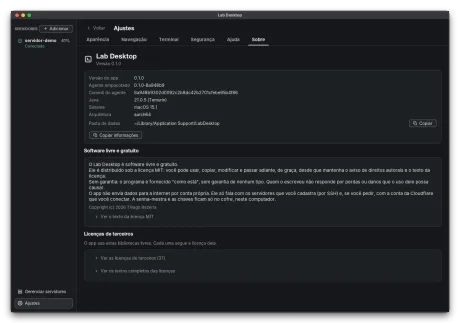
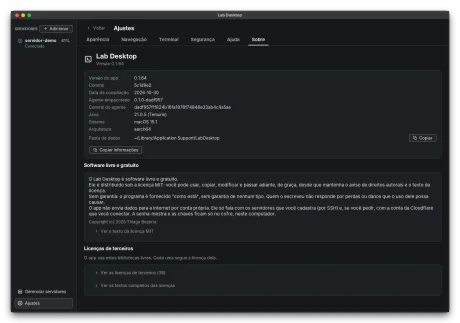
Galeria: telas do servidor com o agente de monitoramento, atualização do agente e Sobre com a versão
Imagens novas e regeneradas nos temas claro e escuro, com dados de exemplo, e galeria atualizada.

Changed region(s): [[0.1826, 0.2477, 0.9435, 0.805], [0.213, 0.8359, 0.3957, 0.8978], [0.8826, 0.3715, 0.9435, 0.4644]]

diff --git a/src/test/java/br/com/labdesktop/ui/galeria/GaleriaAgenteDeLeituraTest.java b/src/test/java/br/com/labdesktop/ui/galeria/GaleriaAgenteDeLeituraTest.java
@@ -1,0 +1,98 @@
+package br.com.labdesktop.ui.galeria;
+
+import static org.junit.jupiter.api.Assertions.assertFalse;
+import static org.junit.jupiter.api.Assertions.assertTrue;
+
+import br.com.labdesktop.Espera;
+import br.com.labdesktop.tendencias.JanelaDeTempo;
+import br.com.labdesktop.ui.VerificaEdt;
+import br.com.labdesktop.ui.Visual;
+import br.com.labdesktop.ui.telas.PaginaResumo;
+import br.com.labdesktop.ui.telas.TelaServidor;
+import br.com.labdesktop.ui.telas.TelaServidor.Aba;
+import java.nio.file.Path;
+import org.junit.jupiter.api.Test;
+import org.junit.jupiter.api.extension.ExtendWith;
+import org.junit.jupiter.api.io.TempDir;
+
+/**
+ * As imagens de galeria de um servidor que tem só o agente de monitoramento que o app instala: ele só lê a máquina, então não há aba Projetos, nem sessões do Claude, nem
+ * "Claude" em lugar nenhum; o Resumo mostra os seis gráficos de tendência (10 minutos e 1 hora) e as abas Máquina e Containers mostram o que o agente lê. Os dados são os
+ * do servidor de exemplo ("servidor-demo", inventados). Saem em {@code build/galeria/servidor-agente-leitura-*}.
+ */
+@ExtendWith(VerificaEdt.class)
+@org.junit.jupiter.api.condition.DisabledOnOs(org.junit.jupiter.api.condition.OS.WINDOWS) // usam o shell, o SFTP e as permissões de um servidor Linux de mentira
+class GaleriaAgenteDeLeituraTest {
+
+    @TempDir
+    Path tmp;
+
+    private static void semClaude(CenaDoServidor c) {
+        // a aba Máquina sempre tem a linha das versões das sessões (aparece sem valor quando o agente não informa a imagem): é a única citação permitida
+        String t = c.textos().replace("Claude" + " Code (sessões)", "");
+        assertFalse(t.toLowerCase().contains("claude"), "um agente de leitura não tem Claude: " + t);
+        TelaServidor ts = c.tela();
+        assertFalse(Visual.naEdt(() -> ts.abas().visivel(Aba.PROJETOS.id())), "o agente diz projetos: false, então a aba Projetos some");
+    }
+
+    private static void resumoNaJanela(CenaDoServidor c, JanelaDeTempo janela) {
+        TelaServidor ts = c.tela();
+        PaginaResumo resumo = (PaginaResumo) ts.pagina(Aba.RESUMO);
+        Object caixa = Visual.naEdt(() -> AcessoPorReflexao.chamar(resumo, "caixaDoRegistro"));
+        Object painelDoRegistro = Visual.naEdt(() -> AcessoPorReflexao.chamar(caixa, "painel"));
+        Visual.naEdt(() -> AcessoPorReflexao.chamar(painelDoRegistro, "forcarVisivelParaTeste", true)); // sem janela de verdade ninguém "aparece"
+        Espera.ate(CenaDoServidor.PRAZO, () -> "o Resumo com os gráficos: " + c.textos().replace('\n', '|'), () -> {
+            Visual.naEdt(() -> AcessoPorReflexao.chamar(resumo, "escolherJanelaParaTeste", janela)); // o seletor só liga quando o agente diz que guarda o histórico
+            String t = c.textos();
+            return t.contains("Tendências") && t.contains(janela.rotuloLongo()) && !t.contains("Carregando") && !t.contains("lendo") && !t.contains("sem dado ainda");
+        });
+    }
+
+    private CenaDoServidor cena() throws Exception {
+        CenaDoServidor c = new CenaDoServidor(tmp, new CenaDoServidor.Opcoes().agenteDeLeitura());
+        c.sshd = SegurancaDeExemplo.SSHD_SO_CHAVE;
+        c.loginsNoRegistro = false;
+        return c;
+    }
+
+    @Test
+    void resumoDe10Minutos() throws Exception {
+        try (CenaDoServidor c = cena()) {
+            c.abrir(Aba.RESUMO);
+            resumoNaJanela(c, JanelaDeTempo.DEZ_MINUTOS);
+            semClaude(c);
+            assertTrue(c.textos().contains("CPU") && c.textos().contains("Memória"), c.textos());
+            c.fotografar("servidor-agente-leitura-resumo-10min");
+        }
+    }
+
+    @Test
+    void resumoDe1Hora() throws Exception {
+        try (CenaDoServidor c = cena()) {
+            c.abrir(Aba.RESUMO);
+            resumoNaJanela(c, JanelaDeTempo.UMA_HORA);
+            semClaude(c);
+            c.fotografar("servidor-agente-leitura-resumo-1h");
+        }
+    }
+
+    @Test
+    void maquina() throws Exception {
+        try (CenaDoServidor c = cena()) {
+            c.abrir(Aba.MAQUINA);
+            c.esperarTextos("a aba Máquina lida pelo agente de leitura", "Git");
+            semClaude(c);
+            c.fotografar("servidor-agente-leitura-maquina");
+        }
+    }
+
+    @Test
+    void containers() throws Exception {
+        try (CenaDoServidor c = cena()) {
+            c.abrir(Aba.CONTAINERS);
+            c.esperarTextos("a aba Containers sem sessões do Claude", "Containers", "Rodando");
+            semClaude(c);
+            c.fotografar("servidor-agente-leitura-containers");
+        }
+    }
+}

diff --git a/src/test/java/br/com/labdesktop/ui/galeria/GaleriaAjustesTest.java b/src/test/java/br/com/labdesktop/ui/galeria/GaleriaAjustesTest.java
@@ -31,13 +31,14 @@ import org.junit.jupiter.api.io.TempDir;
 class GaleriaAjustesTest {
 
     static final String PASTA_DE_DADOS = "~/Library/Application Support/LabDesktop";
-    static final String VERSAO_DO_APP = "0.1.0";
+    /** A versão, o commit e a data da imagem são de exemplo no formato real (versão = base e número de commits): a imagem não mostra os do computador de teste. */
+    static final String VERSAO_DO_APP = "0.1.64";
+    static final String COMMIT_DE_EXEMPLO = "5c1d9e2";
+    static final String DATA_DE_EXEMPLO = "2026-10-30";
     /** O Java, o sistema e a arquitetura da imagem são de exemplo (a imagem não mostra os do computador de teste). */
     static final String JAVA_DE_EXEMPLO = "21.0.5 (Temurin)";
     static final String SISTEMA_DE_EXEMPLO = "macOS 15.1";
     static final String ARQUITETURA_DE_EXEMPLO = "aarch64";
-    static final String AGENTE_VERSAO = "0.1.0-8a948b9";
-    static final String AGENTE_COMMIT = "8a948b9302d0092c2b8dc42b2701cfebe95b4f86";
 
     @TempDir
     Path tmp;
@@ -51,10 +52,10 @@ class GaleriaAjustesTest {
             try {
                 ControleDeAjustes real = new AjustesDoApp(tema, preferencias, c.painel, new CopiadorDeTexto(() -> new Clipboard("teste")), c.avisos);
                 InformacoesDoApp lida = real.informacoes();
-                // o teste roda sem o jar do app (versão "dev", agente "não incluído") e com a pasta de dados temporária: a imagem mostra um app instalado, com a versão do
-                // build.gradle.kts, um agente empacotado de exemplo (versão e commit inventados) e a pasta de dados de um Mac comum
-                InformacoesDoApp informacoes = new InformacoesDoApp(lida.nome(), VERSAO_DO_APP, AGENTE_VERSAO, AGENTE_COMMIT, JAVA_DE_EXEMPLO, SISTEMA_DE_EXEMPLO,
-                    ARQUITETURA_DE_EXEMPLO, PASTA_DE_DADOS);
+                // o teste roda sem o jar do app (versão "dev") e com a pasta de dados temporária: a imagem mostra um app instalado (versão, commit e data de exemplo),
+                // o agente empacotado de verdade (o que o jar leva) e a pasta de dados de um Mac comum
+                InformacoesDoApp informacoes = new InformacoesDoApp(lida.nome(), VERSAO_DO_APP, COMMIT_DE_EXEMPLO, DATA_DE_EXEMPLO, lida.agenteVersao(), lida.agenteCommit(),
+                    JAVA_DE_EXEMPLO, SISTEMA_DE_EXEMPLO, ARQUITETURA_DE_EXEMPLO, PASTA_DE_DADOS);
                 ControleDeAjustes controle = (ControleDeAjustes) Proxy.newProxyInstance(ControleDeAjustes.class.getClassLoader(), new Class<?>[] {ControleDeAjustes.class},
                     (proxy, metodo, args) -> {
                         if (metodo.getName().equals("informacoes")) {
@@ -72,7 +73,7 @@ class GaleriaAjustesTest {
                 String t = c.textos();
                 assertTrue(t.contains("Versão do app") && t.contains("Java") && t.contains("Sistema") && t.contains("Pasta de dados"), t);
                 assertTrue(t.contains(PASTA_DE_DADOS) && t.contains("Copiar informações") && t.contains("Software livre e gratuito"), t);
-                assertTrue(t.contains(AGENTE_VERSAO) && t.contains(VERSAO_DO_APP), t);
+                assertTrue(t.contains(lida.agenteVersao()) && t.contains(VERSAO_DO_APP) && t.contains(COMMIT_DE_EXEMPLO) && t.contains(DATA_DE_EXEMPLO), t);
                 assertFalse(t.contains(tmp.toString()), "a pasta temporária do teste não pode aparecer: " + t);
                 c.fotografar("ajustes-sobre", 960);
             } finally {

diff --git a/src/test/java/br/com/labdesktop/ui/galeria/GaleriaProjetoDialogosTest.java b/src/test/java/br/com/labdesktop/ui/galeria/GaleriaProjetoDialogosTest.java
@@ -234,8 +234,8 @@ class GaleriaProjetoDialogosTest {
     // ---------------------------------------------------------------------------------------------
 
     @Test
-    void instalarOAgenteNaConfirmacaoComandoPorComando() {
-        PacoteDoAgente pacote = PacoteDoAgente.de("0.1.0-8a948b9", "8a948b9302d0092c2b8dc42b2701cfebe95b4f86", new byte[2048]);
+    void instalarOAgenteNaConfirmacaoComandoPorComando() throws Exception {
+        PacoteDoAgente pacote = PacoteDoAgente.doClasspath(); // o agente de verdade que o app leva
         ParametrosDaInstalacao padrao = ParametrosDaInstalacao.padrao(7000);
         ServidorSimulado servidor = new ServidorSimulado(padrao, pacote);
         servidor.noGrupoDocker = true;
@@ -255,6 +255,32 @@ class GaleriaProjetoDialogosTest {
         ImagemDeDialogo.gerarComLoopbackDoTexto(d, "instalar-agente-confirmacao", "1. Enviar o pacote do agente", "4. Conferir que o agente responde e registrar o token", "equivale a ser administrador (root)");
         assertTrue(servidor.escritas().isEmpty(), "sem o clique de confirmar nada roda: " + servidor.escritas());
         assertTrue(ganchos.chamadas.isEmpty(), "o instalador não registrou nenhum token");
+    }
+
+    /** A confirmação de "Atualizar agente": diz o que o agente recebe e avisa que o histórico dos gráficos do agente anterior não é levado. */
+    @Test
+    void atualizarOAgenteNaConfirmacaoAvisaQueOsGraficosRecomecam() throws Exception {
+        PacoteDoAgente pacote = PacoteDoAgente.doClasspath();
+        ParametrosDaInstalacao padrao = ParametrosDaInstalacao.padrao(7000);
+        String anterior = "0.1.0-3b7e9d1";
+        ServidorSimulado servidor = new ServidorSimulado(padrao, pacote);
+        servidor.noGrupoDocker = true;
+        servidor.containerNome = padrao.container();
+        servidor.rotuloDoContainer = anterior;
+        servidor.volumeExiste = true;
+        servidor.pastaExiste = true;
+        GanchosFalsos ganchos = new GanchosFalsos();
+        ganchos.tokenJaValia = true;
+        DialogoDoAgente.definirPrazoDaTravaDaConfirmacaoParaTeste(0);
+        Visual.tema(Tema.CLARO);
+        DialogoDoAgente d = Visual.naEdt(() -> new DialogoDoAgente(DialogoDoAgente.Acao.ATUALIZAR, new DialogoDoAgente.Alvo("servidor-demo", 7000, anterior), pacote,
+            p -> new InstaladorDeAgente(servidor, p, pacote, ganchos).comSonda(Duration.ofMillis(300), Duration.ofMillis(10)), () -> { }, () -> { }, avisos,
+            new CopiadorDeTexto(() -> area)));
+        Visual.naEdt(d::iniciarConferencia);
+        Espera.ate(PRAZO, () -> "página=" + ed(d::paginaAtual), () -> "confirmar".equals(ed(d::paginaAtual)));
+        ImagemDeDialogo.gerarComLoopbackDoTexto(d, "atualizar-agente-confirmacao", "Versão instalada: " + anterior, "Os dados e o token deste computador ficam como estão",
+            "O histórico dos gráficos que o agente anterior guardou não é levado", "O agente só lê", "Não recebe o disco");
+        assertTrue(servidor.escritas().isEmpty(), "sem o clique de confirmar nada roda: " + servidor.escritas());
     }
 
     // ---------------------------------------------------------------------------------------------

diff --git a/src/test/java/br/com/labdesktop/ui/galeria/CenaDoServidor.java b/src/test/java/br/com/labdesktop/ui/galeria/CenaDoServidor.java
@@ -90,6 +90,14 @@ final class CenaDoServidor implements AutoCloseable {
         String nome = NOME;
         ConfigSsh ssh = ConfigSsh.rapida();
         boolean viaSsm;
+        /** O agente de monitoramento que o app instala: só lê a máquina, sem sessões do Claude nem projetos (o que o app esconde). */
+        boolean agenteDeLeitura;
+
+        Opcoes agenteDeLeitura() {
+            this.perfil = "monitor";
+            this.agenteDeLeitura = true;
+            return this;
+        }
 
         Opcoes perfil(String novo) {
             this.perfil = novo;
@@ -129,6 +137,7 @@ final class CenaDoServidor implements AutoCloseable {
         }
     }
 
+    private final boolean agenteDeLeitura;
     private final LancadorAlternavel lancador;
     private final RegistroDeTuneis registro = new RegistroDeTuneis(false);
 
@@ -141,6 +150,7 @@ final class CenaDoServidor implements AutoCloseable {
     }
 
     CenaDoServidor(Path tmp, Opcoes o) throws Exception {
+        agenteDeLeitura = o.agenteDeLeitura;
         acoesAntes = System.getProperty(FluxosDeProjeto.PROPRIEDADE_ACOES);
         System.setProperty(FluxosDeProjeto.PROPRIEDADE_ACOES, "true"); // os botões que escrevem no servidor aparecem ligados, como na janela de verdade
         Visual.tema(Tema.CLARO);
@@ -199,10 +209,27 @@ final class CenaDoServidor implements AutoCloseable {
         return switch (p.caminho()) {
             case "/api/projetos" -> Resposta.json(200, texto(projetosNo()));
             case "/api/limites" -> Resposta.json(200, texto(limitesNo()));
-            case "/api/servidor" -> Resposta.json(200, texto(servidorNo()));
-            case "/api/servidor/detalhe" -> Resposta.json(200, texto(detalheNo()));
+            case "/api/servidor" -> Resposta.json(200, texto(agenteDeLeitura ? semClaude(servidorNo()) : servidorNo()));
+            case "/api/servidor/detalhe" -> Resposta.json(200, texto(agenteDeLeitura ? semClaude(detalheNo()) : detalheNo()));
             default -> null;
         };
+    }
+
+    /** O que o agente de leitura responde: a mesma máquina, sem sessões do Claude, sem consumo por projeto e com os processos de container sem projeto associado. */
+    private static ObjectNode semClaude(ObjectNode raiz) {
+        raiz.putArray("sessoes");
+        if (raiz.path("node") instanceof ObjectNode node) {
+            node.putNull("imagemSessao"); // não há imagem das sessões do Claude neste servidor
+        }
+        if (raiz.has("consumo")) {
+            raiz.putArray("consumo");
+        }
+        for (var processo : raiz.withArray("processos")) {
+            if (processo.hasNonNull("container") && processo.has("projeto")) {
+                ((ObjectNode) processo).putNull("projeto");
+            }
+        }
+        return raiz;
     }
 
     /** Troca os nomes dos mocks (que ainda lembram os de um projeto real) por nomes genéricos. */

diff --git a/docs/GALERIA.md b/docs/GALERIA.md
@@ -2,7 +2,7 @@
 
 Clique numa miniatura para ver a tela inteira. Cada tela aparece nos dois temas, claro e escuro, lado a lado. São telas do app, com dados de exemplo (servidor, projetos, endereços, commits e números inventados, gerados pelos testes do app), dentro de uma moldura de janela desenhada por código: não são capturas da janela do sistema. No Windows e no Linux o app tem o mesmo desenho (com o visual genérico do sistema); a moldura aqui é só um enquadramento.
 
-O app público não traz o pacote do agente de monitoramento; por isso, "Instalar agente…" avisa que esta versão foi compilada sem o agente, em vez de instalar (o terminal, os arquivos e a segurança continuam funcionando).
+O app leva dentro de si o agente de monitoramento (só leitura, token obrigatório, sem IA): "Instalar agente…" o envia ao servidor depois do seu clique e da confirmação.
 
 ## Ver como está o servidor
 
@@ -176,16 +176,28 @@ Direto por SSH, pelo AWS Session Manager ou pelo túnel da Cloudflare, sem abrir
 
 ## Agente e este computador
 
-O agente de monitoramento é opcional e só é instalado depois da sua confirmação.
+O agente de monitoramento vai dentro do app, só lê a máquina (token obrigatório, sem inteligência artificial) e só é instalado depois da sua confirmação.
 
 <table>
   <tr>
     <td align="center" valign="top"><a href="img/o-que-instalar-claro.png"><img src="img/mini/o-que-instalar-claro.webp" alt="O que instalar neste servidor: completo, escolher os itens ou só SSH. (tema claro)" width="205" /></a> <a href="img/o-que-instalar-escuro.png"><img src="img/mini/o-que-instalar-escuro.webp" alt="O que instalar neste servidor: completo, escolher os itens ou só SSH. (tema escuro)" width="205" /></a><br /><sub>O que instalar neste servidor: completo, escolher os itens ou só SSH.</sub></td>
-    <td align="center" valign="top"><a href="img/instalar-agente-confirmacao-claro.png"><img src="img/mini/instalar-agente-confirmacao-claro.webp" alt="Confirmação de instalar o agente: tudo o que foi conferido, os passos e os avisos de segurança. (tema claro)" width="205" /></a> <a href="img/instalar-agente-confirmacao-escuro.png"><img src="img/mini/instalar-agente-confirmacao-escuro.webp" alt="Confirmação de instalar o agente: tudo o que foi conferido, os passos e os avisos de segurança. (tema escuro)" width="205" /></a><br /><sub>Confirmação de instalar o agente: tudo o que foi conferido, os passos e os avisos de segurança.</sub></td>
+    <td align="center" valign="top"><a href="img/instalar-agente-confirmacao-claro.png"><img src="img/mini/instalar-agente-confirmacao-claro.webp" alt="Confirmação de instalar o agente: tudo o que foi conferido, os passos, o que o agente recebe e os avisos de segurança. (tema claro)" width="205" /></a> <a href="img/instalar-agente-confirmacao-escuro.png"><img src="img/mini/instalar-agente-confirmacao-escuro.webp" alt="Confirmação de instalar o agente: tudo o que foi conferido, os passos, o que o agente recebe e os avisos de segurança. (tema escuro)" width="205" /></a><br /><sub>Confirmação de instalar o agente: tudo o que foi conferido, os passos, o que o agente recebe e os avisos de segurança.</sub></td>
   </tr>
   <tr>
+    <td align="center" valign="top"><a href="img/atualizar-agente-confirmacao-claro.png"><img src="img/mini/atualizar-agente-confirmacao-claro.webp" alt="Confirmação de atualizar o agente: a versão instalada e a do app, o que o agente recebe e o aviso de que os gráficos do agente anterior recomeçam vazios. (tema claro)" width="205" /></a> <a href="img/atualizar-agente-confirmacao-escuro.png"><img src="img/mini/atualizar-agente-confirmacao-escuro.webp" alt="Confirmação de atualizar o agente: a versão instalada e a do app, o que o agente recebe e o aviso de que os gráficos do agente anterior recomeçam vazios. (tema escuro)" width="205" /></a><br /><sub>Confirmação de atualizar o agente: a versão instalada e a do app, o que o agente recebe e o aviso de que os gráficos do agente anterior recomeçam vazios.</sub></td>
+    <td align="center" valign="top"><a href="img/servidor-agente-leitura-resumo-10min-claro.png"><img src="img/mini/servidor-agente-leitura-resumo-10min-claro.webp" alt="Servidor com só o agente de monitoramento: sem aba Projetos e sem Claude, e o Resumo com os seis gráficos de 10 minutos. (tema claro)" width="205" /></a> <a href="img/servidor-agente-leitura-resumo-10min-escuro.png"><img src="img/mini/servidor-agente-leitura-resumo-10min-escuro.webp" alt="Servidor com só o agente de monitoramento: sem aba Projetos e sem Claude, e o Resumo com os seis gráficos de 10 minutos. (tema escuro)" width="205" /></a><br /><sub>Servidor com só o agente de monitoramento: sem aba Projetos e sem Claude, e o Resumo com os seis gráficos de 10 minutos.</sub></td>
+  </tr>
+  <tr>
+    <td align="center" valign="top"><a href="img/servidor-agente-leitura-resumo-1h-claro.png"><img src="img/mini/servidor-agente-leitura-resumo-1h-claro.webp" alt="O mesmo Resumo com os gráficos da última hora (o agente guarda até 30 dias). (tema claro)" width="205" /></a> <a href="img/servidor-agente-leitura-resumo-1h-escuro.png"><img src="img/mini/servidor-agente-leitura-resumo-1h-escuro.webp" alt="O mesmo Resumo com os gráficos da última hora (o agente guarda até 30 dias). (tema escuro)" width="205" /></a><br /><sub>O mesmo Resumo com os gráficos da última hora (o agente guarda até 30 dias).</sub></td>
+    <td align="center" valign="top"><a href="img/servidor-agente-leitura-maquina-claro.png"><img src="img/mini/servidor-agente-leitura-maquina-claro.webp" alt="Máquina lida pelo agente: sensores, CPU por núcleo, discos, rede e memória. (tema claro)" width="205" /></a> <a href="img/servidor-agente-leitura-maquina-escuro.png"><img src="img/mini/servidor-agente-leitura-maquina-escuro.webp" alt="Máquina lida pelo agente: sensores, CPU por núcleo, discos, rede e memória. (tema escuro)" width="205" /></a><br /><sub>Máquina lida pelo agente: sensores, CPU por núcleo, discos, rede e memória.</sub></td>
+  </tr>
+  <tr>
+    <td align="center" valign="top"><a href="img/servidor-agente-leitura-containers-claro.png"><img src="img/mini/servidor-agente-leitura-containers-claro.webp" alt="Containers: o agente conta o que roda no Docker e o espaço que ocupa, sem sessões do Claude. (tema claro)" width="205" /></a> <a href="img/servidor-agente-leitura-containers-escuro.png"><img src="img/mini/servidor-agente-leitura-containers-escuro.webp" alt="Containers: o agente conta o que roda no Docker e o espaço que ocupa, sem sessões do Claude. (tema escuro)" width="205" /></a><br /><sub>Containers: o agente conta o que roda no Docker e o espaço que ocupa, sem sessões do Claude.</sub></td>
     <td align="center" valign="top"><a href="img/este-computador-claro.png"><img src="img/mini/este-computador-claro.webp" alt="Este computador: o laboratório rodando no Docker local, sem servidor e sem SSH. (tema claro)" width="205" /></a> <a href="img/este-computador-escuro.png"><img src="img/mini/este-computador-escuro.webp" alt="Este computador: o laboratório rodando no Docker local, sem servidor e sem SSH. (tema escuro)" width="205" /></a><br /><sub>Este computador: o laboratório rodando no Docker local, sem servidor e sem SSH.</sub></td>
+  </tr>
+  <tr>
     <td align="center" valign="top"><a href="img/preparar-este-computador-claro.png"><img src="img/mini/preparar-este-computador-claro.webp" alt="Preparar este computador: o app só confere o que falta e mostra o que vai fazer antes de criar o laboratório. (tema claro)" width="205" /></a> <a href="img/preparar-este-computador-escuro.png"><img src="img/mini/preparar-este-computador-escuro.webp" alt="Preparar este computador: o app só confere o que falta e mostra o que vai fazer antes de criar o laboratório. (tema escuro)" width="205" /></a><br /><sub>Preparar este computador: o app só confere o que falta e mostra o que vai fazer antes de criar o laboratório.</sub></td>
+    <td></td>
   </tr>
 </table>
 
@@ -223,7 +235,7 @@ Tema, abas, informações do app e a Ajuda que vem dentro dele.
   </tr>
   <tr>
     <td align="center" valign="top"><a href="img/sair-do-projeto-marcada-claro.png"><img src="img/mini/sair-do-projeto-marcada-claro.webp" alt="A mesma pergunta com a caixa marcada: só vale se você confirmar a saída (Cancelar ignora a marca). (tema claro)" width="205" /></a> <a href="img/sair-do-projeto-marcada-escuro.png"><img src="img/mini/sair-do-projeto-marcada-escuro.webp" alt="A mesma pergunta com a caixa marcada: só vale se você confirmar a saída (Cancelar ignora a marca). (tema escuro)" width="205" /></a><br /><sub>A mesma pergunta com a caixa marcada: só vale se você confirmar a saída (Cancelar ignora a marca).</sub></td>
-    <td align="center" valign="top"><a href="img/ajustes-sobre-claro.png"><img src="img/mini/ajustes-sobre-claro.webp" alt="Sobre: versão, Java, sistema, pasta de dados, licença MIT e licenças de terceiros. (tema claro)" width="205" /></a> <a href="img/ajustes-sobre-escuro.png"><img src="img/mini/ajustes-sobre-escuro.webp" alt="Sobre: versão, Java, sistema, pasta de dados, licença MIT e licenças de terceiros. (tema escuro)" width="205" /></a><br /><sub>Sobre: versão, Java, sistema, pasta de dados, licença MIT e licenças de terceiros.</sub></td>
+    <td align="center" valign="top"><a href="img/ajustes-sobre-claro.png"><img src="img/mini/ajustes-sobre-claro.webp" alt="Sobre: versão, commit e data da compilação, o agente que o app leva, Java, sistema, pasta de dados, licença MIT e licenças de terceiros. (tema claro)" width="205" /></a> <a href="img/ajustes-sobre-escuro.png"><img src="img/mini/ajustes-sobre-escuro.webp" alt="Sobre: versão, commit e data da compilação, o agente que o app leva, Java, sistema, pasta de dados, licença MIT e licenças de terceiros. (tema escuro)" width="205" /></a><br /><sub>Sobre: versão, commit e data da compilação, o agente que o app leva, Java, sistema, pasta de dados, licença MIT e licenças de terceiros.</sub></td>
   </tr>
   <tr>
     <td align="center" valign="top"><a href="img/ajuda-claro.png"><img src="img/mini/ajuda-claro.webp" alt="Ajuda no app: como conectar a um servidor. (tema claro)" width="205" /></a> <a href="img/ajuda-escuro.png"><img src="img/mini/ajuda-escuro.webp" alt="Ajuda no app: como conectar a um servidor. (tema escuro)" width="205" /></a><br /><sub>Ajuda no app: como conectar a um servidor.</sub></td>
